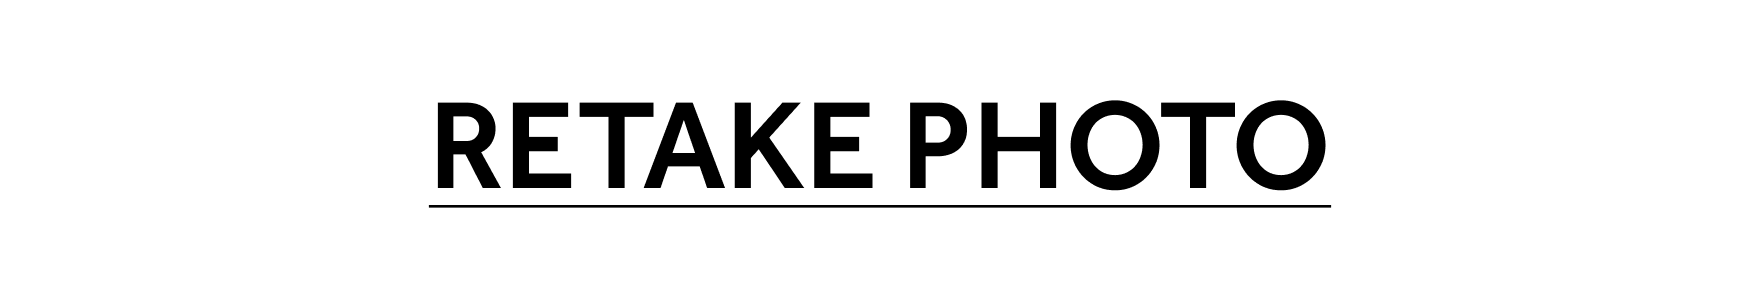
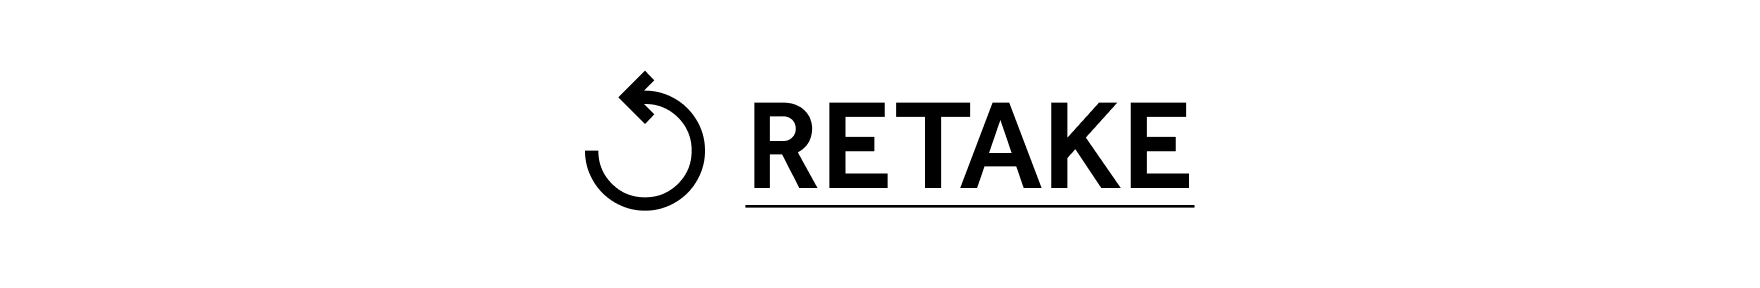
fix flow template1

Changed region(s): [[0.25, 0.25, 0.7812, 0.75], [0.6875, 0.6875, 0.75, 0.75]]

diff --git a/src/app/cpl/result/page.tsx b/src/app/cpl/result/page.tsx
@@ -10,6 +10,9 @@ type Captures = {
 };
 
 const EMPTY_CAPTURES: Captures = { 1: null, 2: null };
+const DEBUG_ALWAYS_SHOW_QR_POPUP = false;
+const DEBUG_DISABLE_QR_COUNTDOWN = false;
+const DEBUG_QR_VALUE = "https://example.com/debug-qr";
 const SLOT_LAYOUT = {
   1: { left: 3, top: 39.7, width: 45.6, height: 41.1 },
   2: { left: 69.5, top: 68.5, width: 28, height: 12.5 },
@@ -22,6 +25,7 @@ export default function CplResultPage() {
   const [uploadError, setUploadError] = useState<string | null>(null);
   const [qrValue, setQrValue] = useState<string | null>(null);
   const [uploadId, setUploadId] = useState<string | null>(null);
+  const [secondsLeft, setSecondsLeft] = useState(10);
 
   useEffect(() => {
     const params = new URLSearchParams(window.location.search);
@@ -57,12 +61,29 @@ export default function CplResultPage() {
     [selectedTemplate],
   );
 
+  const effectiveQrValue = DEBUG_ALWAYS_SHOW_QR_POPUP
+    ? qrValue ?? DEBUG_QR_VALUE
+    : qrValue;
+
   const qrImageUrl = useMemo(() => {
-    if (!qrValue) return null;
-    return `https://api.qrserver.com/v1/create-qr-code/?size=360x360&data=${encodeURIComponent(
-      qrValue,
+    if (!effectiveQrValue) return null;
+    return `https://api.qrserver.com/v1/create-qr-code/?size=720x720&data=${encodeURIComponent(
+      effectiveQrValue,
     )}`;
-  }, [qrValue]);
+  }, [effectiveQrValue]);
+
+  useEffect(() => {
+    if (!effectiveQrValue) return;
+    if (DEBUG_DISABLE_QR_COUNTDOWN) return;
+    if (secondsLeft <= 0) {
+      window.location.href = "/cpl";
+      return;
+    }
+    const timer = window.setTimeout(() => {
+      setSecondsLeft((prev) => prev - 1);
+    }, 1000);
+    return () => window.clearTimeout(timer);
+  }, [effectiveQrValue, secondsLeft]);
 
   async function loadImage(src: string) {
     return new Promise<HTMLImageElement>((resolve, reject) => {
@@ -229,6 +250,7 @@ export default function CplResultPage() {
 
       setQrValue(data.file);
       setUploadId(data.id ? String(data.id) : null);
+      setSecondsLeft(10);
       window.localStorage.setItem("faceURLResult", data.file);
 
       window.setTimeout(() => {
@@ -327,7 +349,7 @@ export default function CplResultPage() {
             className="block w-full"
           >
             <Image
-              src="/cpl/btn-continue.png"
+              src="/cpl/btn-collect.png"
               alt="Continue"
               width={1024}
               height={216}
@@ -354,25 +376,66 @@ export default function CplResultPage() {
           <p className="mt-2 text-center text-sm text-red-600">{uploadError}</p>
         ) : null}
 
-        {qrImageUrl ? (
-          <div className="fixed bottom-4 right-4 z-50 flex flex-col items-center gap-2 rounded-xl bg-white/90 px-4 py-4 shadow-xl">
-            <img src={qrImageUrl} alt="QR Result" className="h-auto w-[180px]" />
-            {uploadId ? (
-              <p className="text-xs text-black">ID: {uploadId}</p>
-            ) : null}
-          </div>
-        ) : null}
       </div>
 
       {isUploading ? (
         <div className="absolute inset-0 z-50 flex items-center justify-center bg-black/70">
-          <div className="flex w-[86%] max-w-[360px] flex-col items-center gap-3 rounded-2xl bg-white px-5 py-6 text-black">
-            <div className="h-10 w-10 animate-spin rounded-full border-4 border-zinc-300 border-t-black" />
-            <p className="text-center text-sm font-medium">
+          <div className="flex w-[86%] flex-col items-center gap-3 rounded-2xl bg-white p-10 text-black">
+            <div className="h-[100px] w-[100px] animate-spin rounded-full border-4 border-zinc-300 border-t-black" />
+            <p className="text-center text-[5vw] font-medium">
               Uploading ke server...
               <br />
               Mohon tunggu sebentar.
             </p>
+          </div>
+        </div>
+      ) : null}
+
+      {qrImageUrl ? (
+        <div className="absolute inset-0 z-[60] flex min-h-dvh w-full items-center justify-center">
+          <div className="absolute top-[5rem] left-0 right-0 mx-auto w-[135px]">
+            <Image
+              src="/cpl/cpl-logo.png"
+              alt=""
+              width={280}
+              height={280}
+              priority
+              className="h-auto w-full"
+              sizes="86px"
+            />
+          </div>
+          <div className="relative flex min-h-dvh w-full flex-col items-center overflow-hidden">
+            <div
+              className="absolute inset-0 -z-20 bg-cover bg-center bg-no-repeat"
+              style={{ backgroundImage: "url(/cpl/bg.jpg)" }}
+            />
+            <div
+              className="pointer-events-none absolute inset-0 -z-10 bg-cover bg-center bg-no-repeat"
+              style={{ backgroundImage: "url(/cpl/frame.png)" }}
+            />
+
+            <Image
+              src="/cpl/scan.png"
+              alt=""
+              width={1542}
+              height={494}
+              className="mt-[20rem] mb-10 h-auto w-[70%]"
+              sizes="(max-width: 640px) 76vw, 360px"
+            />
+
+            <div className="mt-6 rounded-xl bg-white p-4 shadow-xl">
+              <img src={qrImageUrl} alt="QR Result" className="h-[720px] w-[720px]" />
+            </div>
+
+            {uploadId ? <p className="mt-2 text-2xl text-black">ID: {uploadId}</p> : null}
+
+            {!DEBUG_DISABLE_QR_COUNTDOWN ? (
+              <p className="mt-auto pb-[9rem] text-[5vw] text-black">
+                Back to home in {secondsLeft}s
+              </p>
+            ) : (
+              <div className="mt-auto pb-10" />
+            )}
           </div>
         </div>
       ) : null}